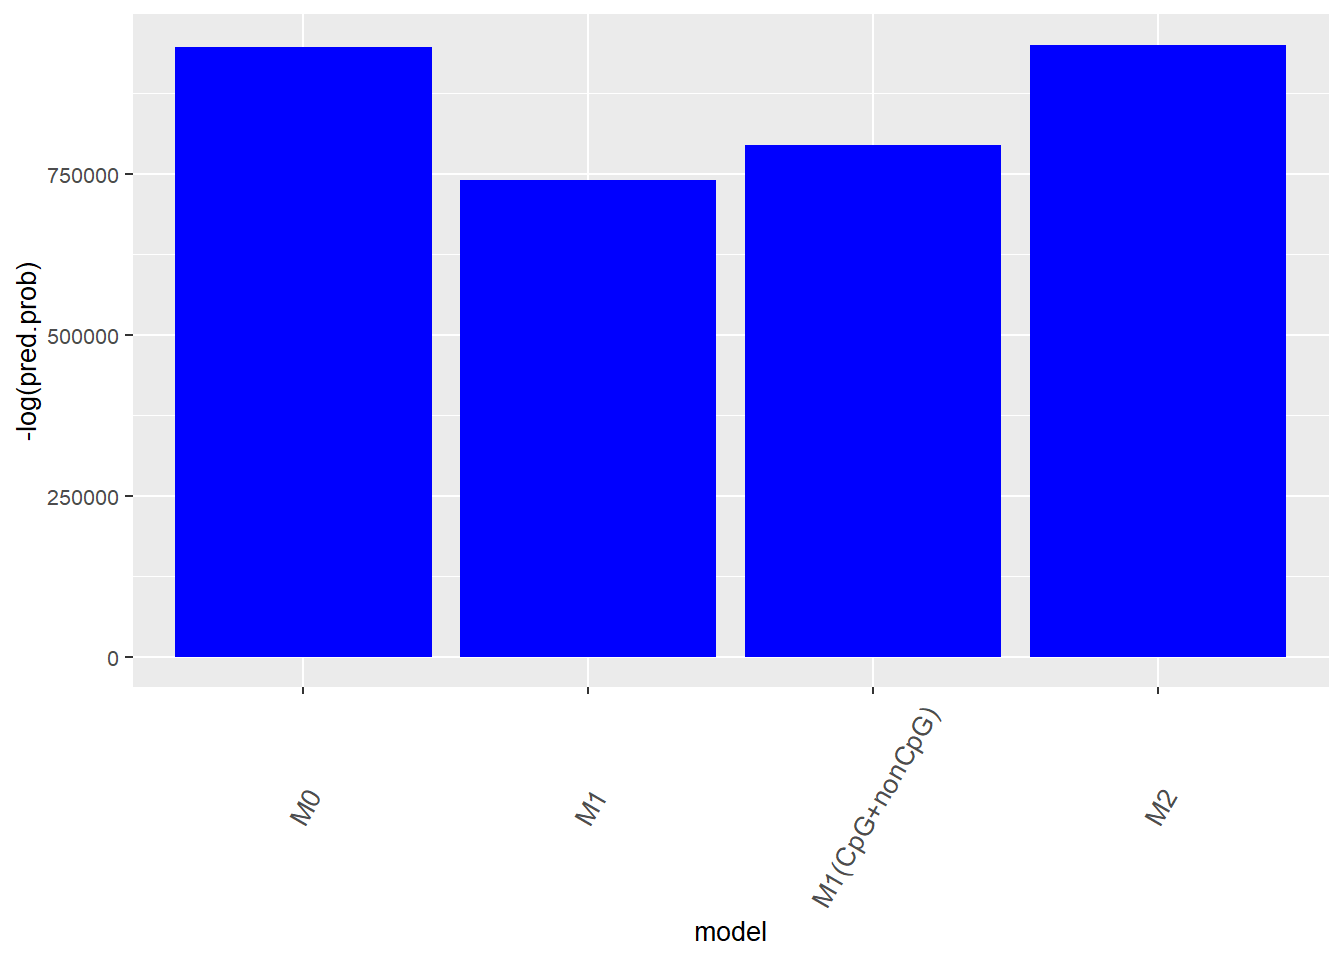
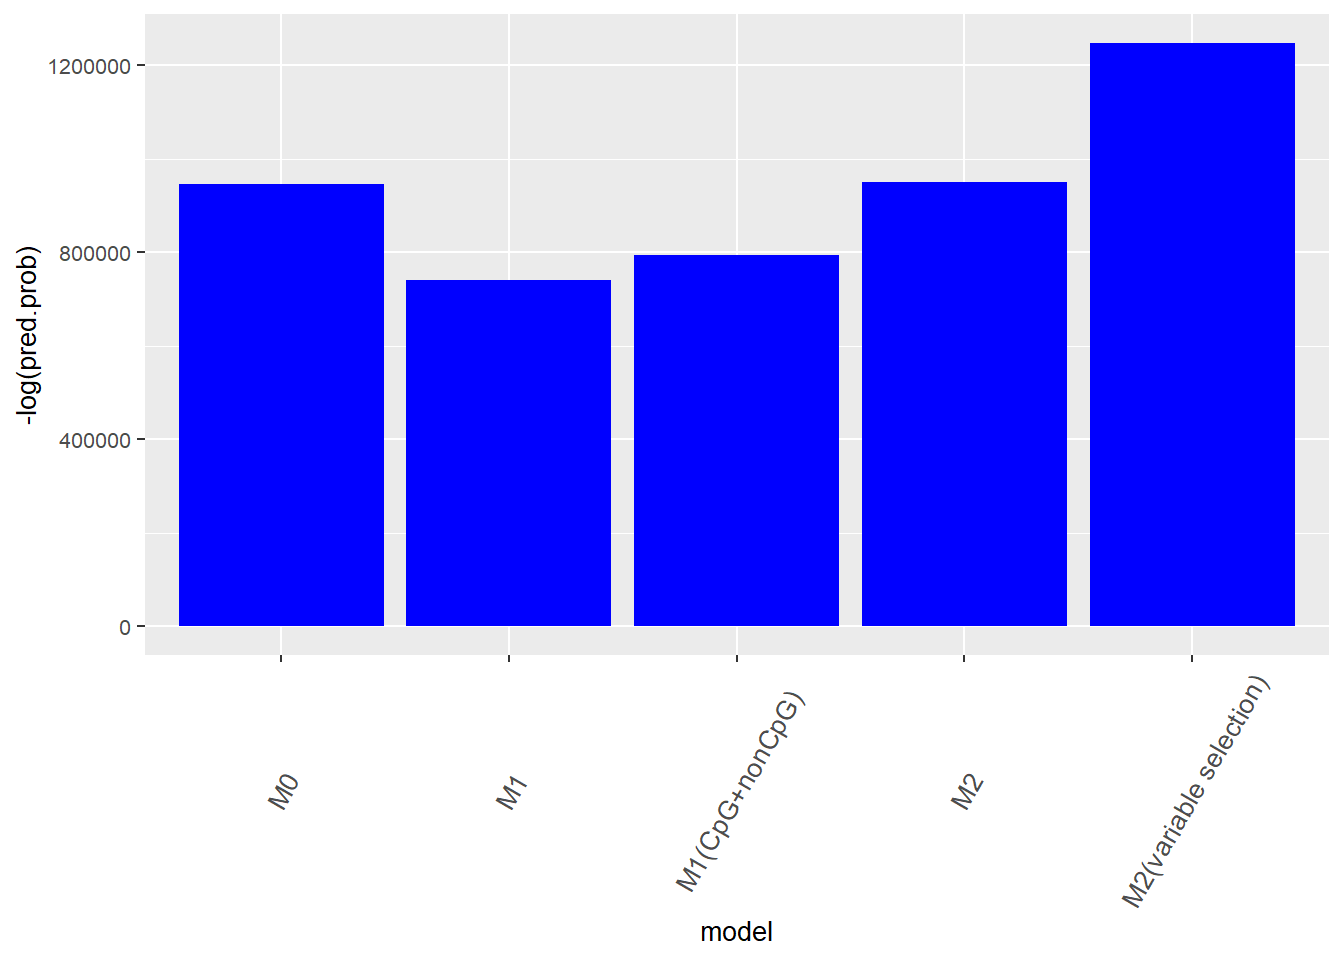
4/19/2022

diff --git a/docs/simons-control-wgs.html b/docs/simons-control-wgs.html
@@ -427,6 +427,7 @@ div.section {
 <li><p>Model 1 (M1): 3-mer+features for pooled 9 mutation types</p></li>
 <li><p>Model M1(CpG+nonCpG): split Model 1 (M1) into two submodels, M1(CpG):3-mer+features for pooled 3 CpG mutation types and M1(nonCpG): 3-mer+features for pooled 6 nonCpG mutation types</p></li>
 <li><p>Model 2 (M2): 3-mer+features for 9 mutation types</p></li>
+<li><p>Model 2 with variable selection (M2(variable selection)): among 14 covariates features, only significant ones are kept to fit the model. Significant variables are defined as top 4 variables in terms of the ratio of coefficient estimate over their CI.</p></li>
 </ul>
 <div id="predictive-density-measure" class="section level3">
 <h3>Predictive density measure</h3>
@@ -448,7 +449,9 @@ div.section {
 <li><p>In M0, M2 for each one of 9 mutation types, use even(odd) window as train set to estimate parameters, and use remaining odd(even) window to calculate predicted probability, and sum up across all mutation types.</p></li>
 <li><p>In M1, use odd(even) window as train set, and remaining even(odd) window to calculate predicted probability and add them up.</p></li>
 <li><p>Split 9 mutation types into 3 CpG combined sample, M1(CpG) and 6 nonCpG combined sample, M1(nonCpG)</p></li>
-<li><p>the higher predicted probability, the better, M1&gt;M1(CpG)+M1(nonCpG)&gt;M0&gt;M2 The way that calculates the precited probability for 3 CpG combined sample and 6 nonCpG combined sample is the same as in M1 by treating the subset of 3 CpG combined sample as the whole sample.</p></li>
+<li><p>M2(variable selection appears to be the worst one)</p></li>
+<li><p>the higher predicted probability, the better, M1&gt;M1(CpG)+M1(nonCpG)&gt;M0&gt;M2&gt;M2(variable selection).</p></li>
+<li><p>The way that calculates the precited probability for 3 CpG combined sample and 6 nonCpG combined sample is the same as in M1 by treating the subset of 3 CpG combined sample as the whole sample.</p></li>
 </ul>
 <p><img src="simons-control-wgs_files/figure-html/unnamed-chunk-5-1.png" width="672" /></p>
 </div>
